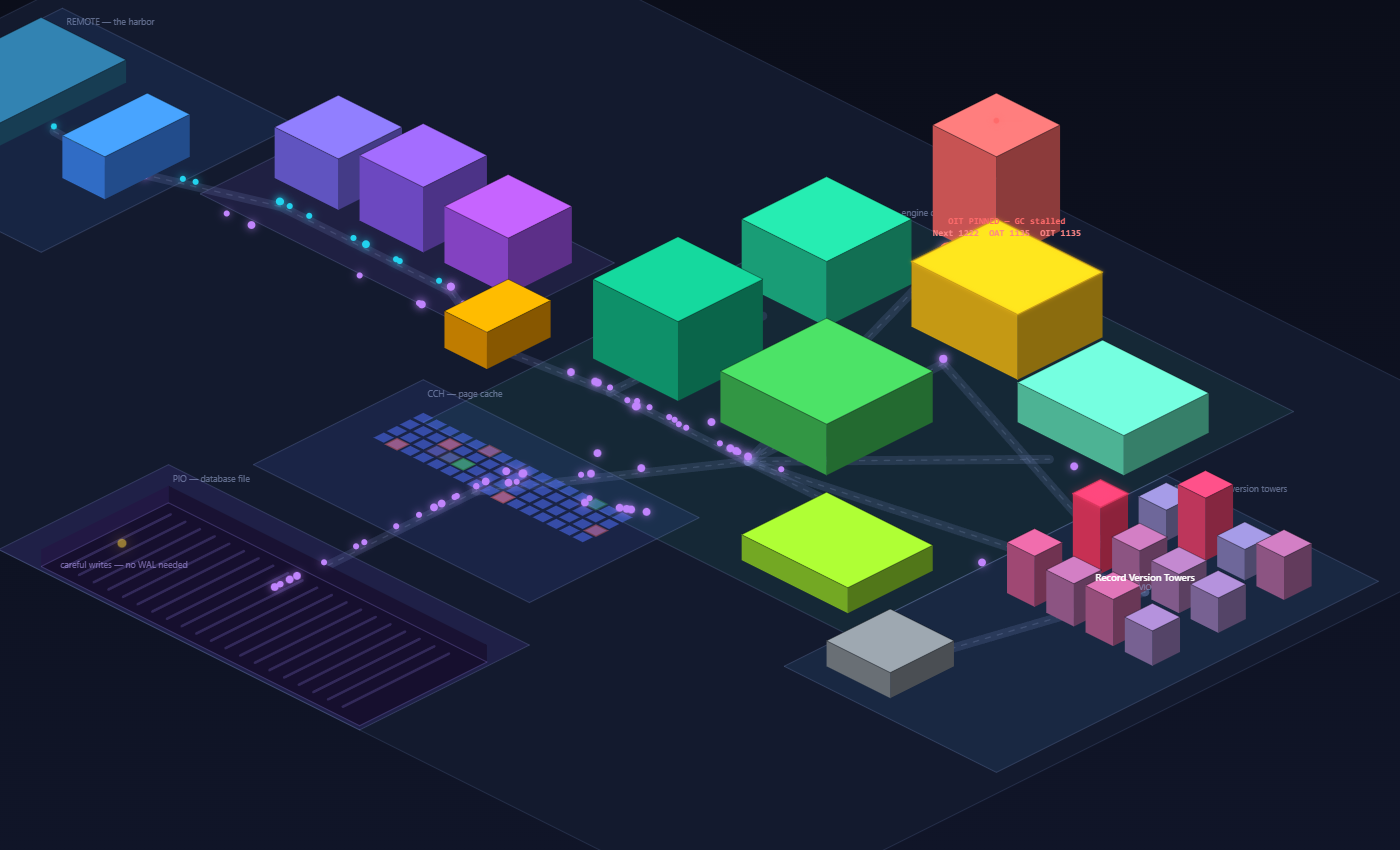
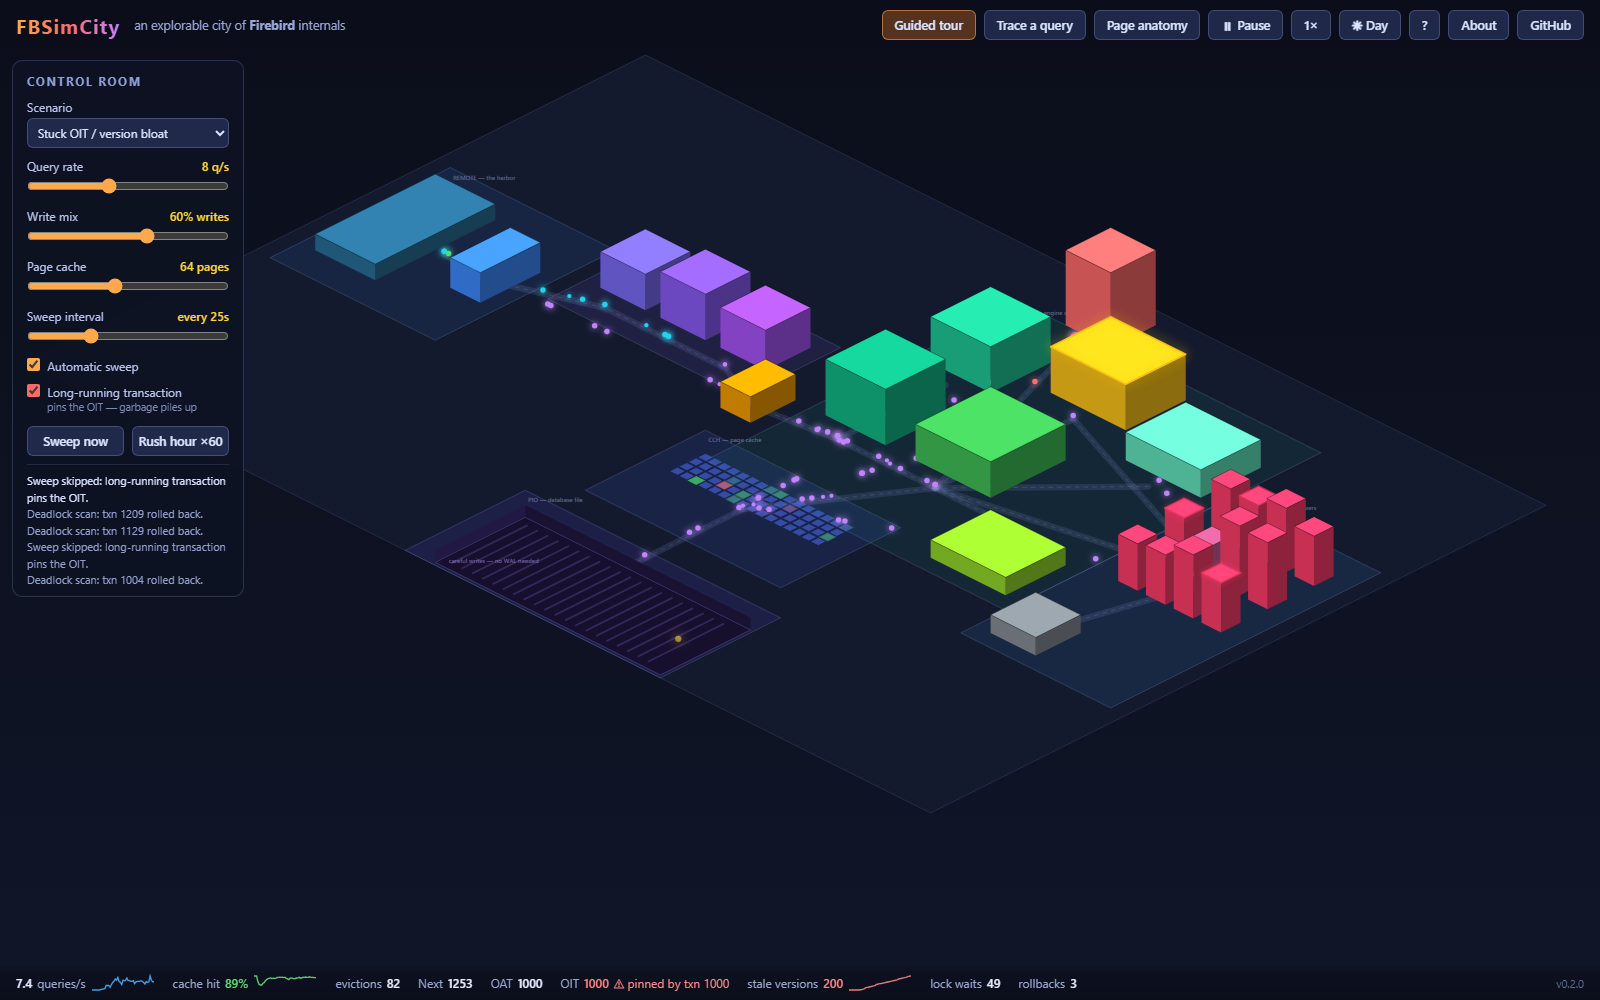
Refresh README screenshot for v0.2.0; add deep-link params
The screenshot now shows the stuck-OIT scenario with the v0.2.0 UI:
sparkline vitals, pinned-OIT warning, grown version towers, scenario
picker. New URL params make such states reproducible: ?scenario=...,
?theme=day|dark, ?warp=N fast-forwards the simulation N seconds.

diff --git a/js/ui.js b/js/ui.js
@@ -91,7 +91,7 @@ var UI = (function () {
     }
   };
 
-  function applyScenario(key) {
+  function applyScenario(key, noFly) {
     var sc = SCENARIOS[key];
     if (!sc) return;
     setRange("ctl-rate", sc.set.rate);
@@ -103,7 +103,7 @@ var UI = (function () {
     if (sc.burst) Sim.burst(simRef, sc.burst);
     simRef.log.push({ t: simRef.time, msg: sc.msg });
     if (simRef.log.length > 6) simRef.log.shift();
-    if (onFocus) onFocus(sc.focus, sc.zoom);
+    if (onFocus && !noFly) onFocus(sc.focus, sc.zoom);
   }
 
   function setRange(id, v) {
@@ -197,6 +197,19 @@ var UI = (function () {
     $("anatomy-close").addEventListener("click", function () { toggleOverlay("anatomy-overlay", false); });
 
     showAbout();
+
+    // deep links: ?scenario=stuckoit&theme=day
+    try {
+      var params = new URLSearchParams(location.search);
+      var th = params.get("theme");
+      if (th === "day" || th === "dark") applyTheme(th);
+      var sc = params.get("scenario");
+      if (sc && SCENARIOS[sc]) {
+        $("ctl-scenario").value = sc;
+        applyScenario(sc, true); // stay on the city-wide view
+        els.info.classList.add("hidden");
+      }
+    } catch (e) { }
   }
 
   function bindRange(id, setter, fmt) {

diff --git a/js/main.js b/js/main.js
@@ -213,5 +213,18 @@
   UI.init(sim, focusOn);
   resize();
   fitCamera();
+
+  // deep link: ?warp=45 fast-forwards the simulation 45 seconds at load
+  try {
+    var warp = parseInt(new URLSearchParams(location.search).get("warp"), 10);
+    if (warp > 0) {
+      warp = Math.min(warp, 300);
+      for (var wi = 0; wi < warp * 60; wi++) {
+        Sim.tick(sim, 1 / 60);
+        if (wi % 60 === 59) UI.updateStats(sim); // feed the sparklines
+      }
+    }
+  } catch (e) { }
+
   requestAnimationFrame(frame);
 })();

diff --git a/README.md b/README.md
@@ -67,6 +67,11 @@ clients ⇄ REMOTE (Y-valve) ⇄ DSQL (SQL → BLR) ⇄ JRD (engine) — LOCK ma
   and the record version chain.
 - Switch to the **daylight theme** (`D`), pause the world (`space`), or run
   it at 4× speed. Press `?` for all shortcuts.
+- **Deep-link a state**: `?scenario=stuckoit&theme=day&warp=50` applies a
+  scenario (`steady`, `thrash`, `stuckoit`, `locks`, `rush`, `sweepstorm`),
+  picks a theme, and fast-forwards the simulation 50 seconds — handy for
+  sharing a reproducible view (the README screenshot is exactly
+  [this link](https://mariuz.github.io/FBSimCity/?scenario=stuckoit&warp=50)).
 
 ## What it is (and isn't)
 
